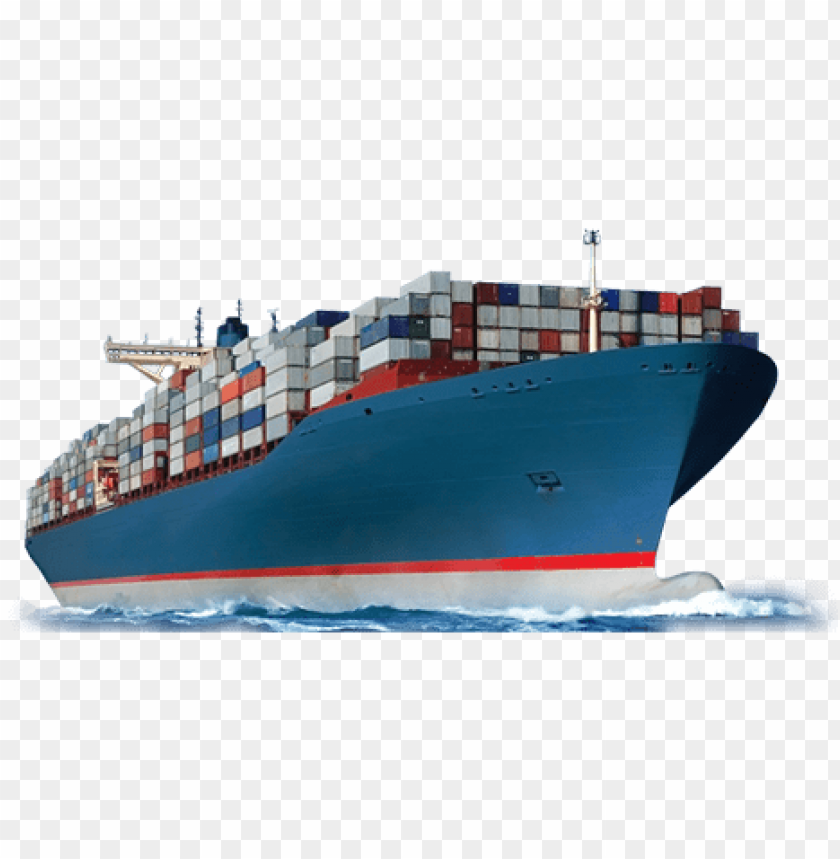
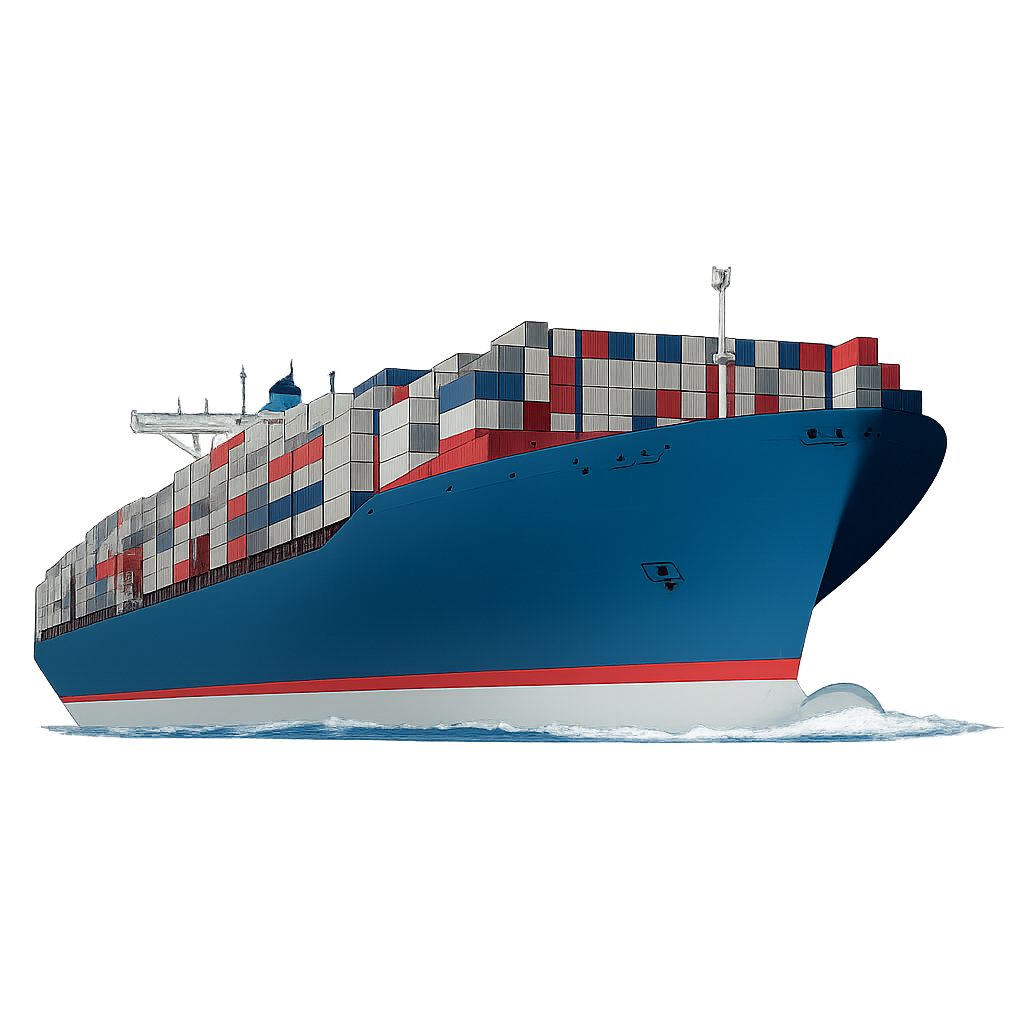
..

Changed region(s): [[0.0, 0.2421, 1.0, 0.7567], [0.619, 0.5448, 0.7119, 0.6054]]

diff --git a/src/components/Challenges/Challenges.jsx b/src/components/Challenges/Challenges.jsx
@@ -1,6 +1,6 @@
 import React, { useState } from 'react';
 import './challenges.css';
-import defaultphoto from '../../assets/defaultphoto.png'; 
+import defaultphoto from '../../assets/challengePic3.jpg'; 
 import challengePic1 from '../../assets/challengePic1.png';
 import challengePic2 from '../../assets/challengePic2.png';
 

diff --git a/src/components/Testimonial/Testimonial.jsx b/src/components/Testimonial/Testimonial.jsx
@@ -1,6 +1,6 @@
 import React from "react";
 import "./testimonial.css";
-import testimonialpic from '../../assets/testimonialpic.png'
+import testimonialpic from '../../assets/testimonialpic.jpg'
 
 function Testimonial() {
   return (

diff --git a/src/components/Hero/Hero.jsx b/src/components/Hero/Hero.jsx
@@ -1,6 +1,6 @@
 import React from "react";
 import "./Hero.css";
-import ship from "../../assets/ship3.png"; 
+import ship from "../../assets/ship2.png"; 
 
 
 function Hero() {
